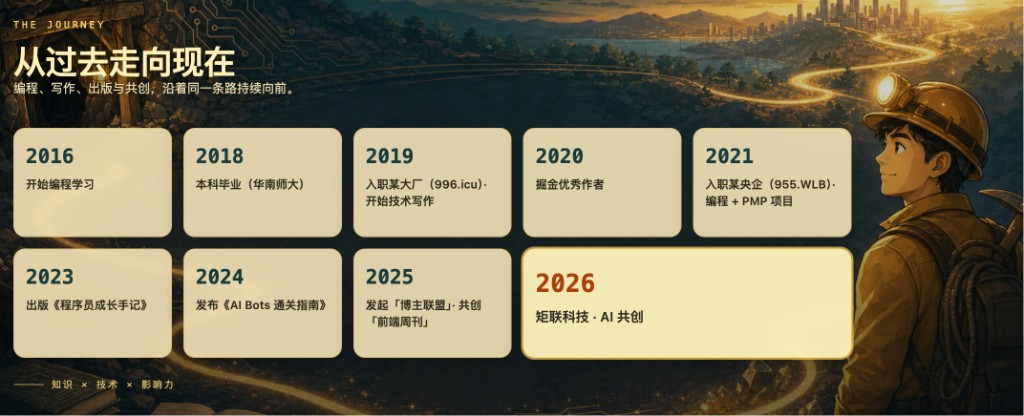
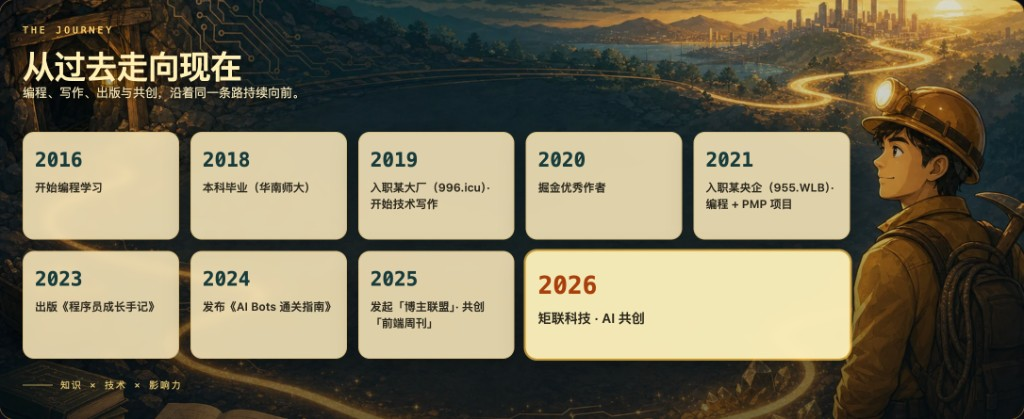
docs: put the sharper timeline after the README table of contents
Replace the blurry journey image and move it below the TOC instead of the page header.

diff --git a/README.md b/README.md
@@ -1,7 +1,3 @@
-<p align="center">
-  <img src="./assets/journey-timeline.jpg" alt="从过去走向现在 · 2016—2026" width="900" />
-</p>
-
 <h1 align="center">👋 你好，我是涂阿燃（TUARAN）</h1>
 
 <p align="center">
@@ -28,6 +24,7 @@
 
 ## 目录
 
+- [时间线](#时间线)
 - [关于我](#关于我)
 - [出版作品](#出版作品)
 - [开源贡献](#开源贡献)
@@ -36,6 +33,11 @@
 - [联系](#联系)
 
 ---
+
+<p align="center">
+  <a id="时间线"></a>
+  <img src="./assets/journey-timeline.jpg" alt="从过去走向现在 · 2016—2026" />
+</p>
 
 ## 关于我
 

diff --git a/README.en.md b/README.en.md
@@ -1,7 +1,3 @@
-<p align="center">
-  <img src="./assets/journey-timeline.jpg" alt="The journey from 2016 to 2026" width="900" />
-</p>
-
 <h1 align="center">👋 Hi, I'm Tu Aran (TUARAN)</h1>
 
 <p align="center">
@@ -28,6 +24,7 @@
 
 ## Contents
 
+- [Timeline](#timeline)
 - [About](#about)
 - [Publications](#publications)
 - [Open Source](#open-source)
@@ -36,6 +33,11 @@
 - [Contact](#contact)
 
 ---
+
+<p align="center">
+  <a id="timeline"></a>
+  <img src="./assets/journey-timeline.jpg" alt="The journey from 2016 to 2026" />
+</p>
 
 ## About
 
